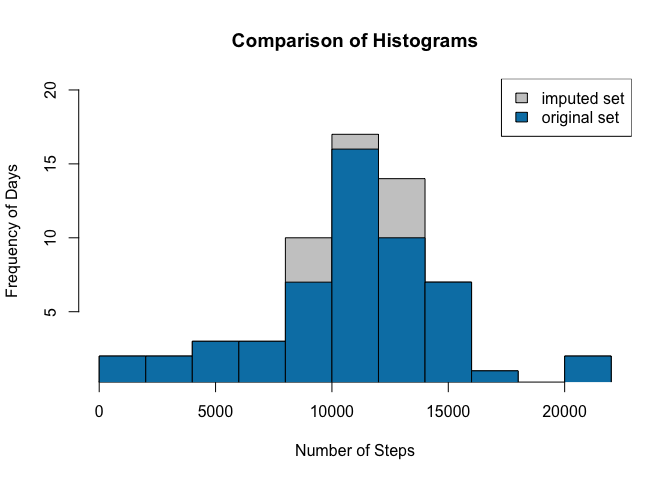
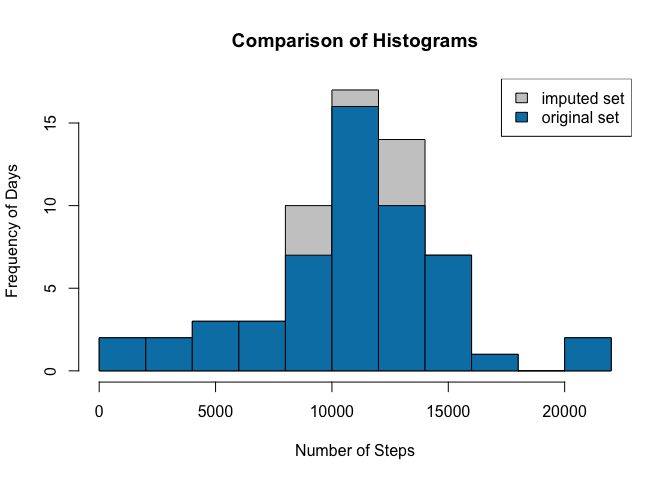
remove uncessary ylim

diff --git a/PA1_template.html b/PA1_template.html
@@ -206,13 +206,12 @@ sum(is.na(fullplus))      ## check that there are zero missing values</code></pr
   h2 = hist(dailysteps2, breaks = 15, plot=FALSE)
   
   ## plot both histograms superimposed over one another
-  plot(h2, col=rgb(0,0,0,1/4), ylim=c(1,20), 
-       main = &quot;Comparison of Histograms&quot;,
+  plot(h2, col=rgb(0,0,0,1/4), main = &quot;Comparison of Histograms&quot;,
        xlab = &quot;Number of Steps&quot;, ylab = &quot;Frequency of Days&quot;)
-  plot(h1, col=rgb(0,.5,.7,1), ylim=c(1,20), add=T)
+  plot(h1, col=rgb(0,.5,.7,1), add=T)
   legend(&quot;topright&quot;, c(&quot;imputed set&quot;, &quot;original set&quot;), 
          fill=c(col=rgb(0,0,0,1/4), rgb(0,.5,.7,1)))</code></pre>
[2 lines of base64/hex data omitted]
 <pre class="r"><code>  meanval    = rbind(meansteps,mean(dailysteps2))
   medianval  = rbind(medsteps,median(dailysteps2))
   meancomparsion = data.frame(meanval,medianval)

diff --git a/PA1_template.md b/PA1_template.md
@@ -230,10 +230,9 @@ We run the same code as in question one, but on the data set that includes imput
   h2 = hist(dailysteps2, breaks = 15, plot=FALSE)
   
   ## plot both histograms superimposed over one another
-  plot(h2, col=rgb(0,0,0,1/4), ylim=c(1,20), 
-       main = "Comparison of Histograms",
+  plot(h2, col=rgb(0,0,0,1/4), main = "Comparison of Histograms",
        xlab = "Number of Steps", ylab = "Frequency of Days")
-  plot(h1, col=rgb(0,.5,.7,1), ylim=c(1,20), add=T)
+  plot(h1, col=rgb(0,.5,.7,1), add=T)
   legend("topright", c("imputed set", "original set"), 
          fill=c(col=rgb(0,0,0,1/4), rgb(0,.5,.7,1)))
 ```
